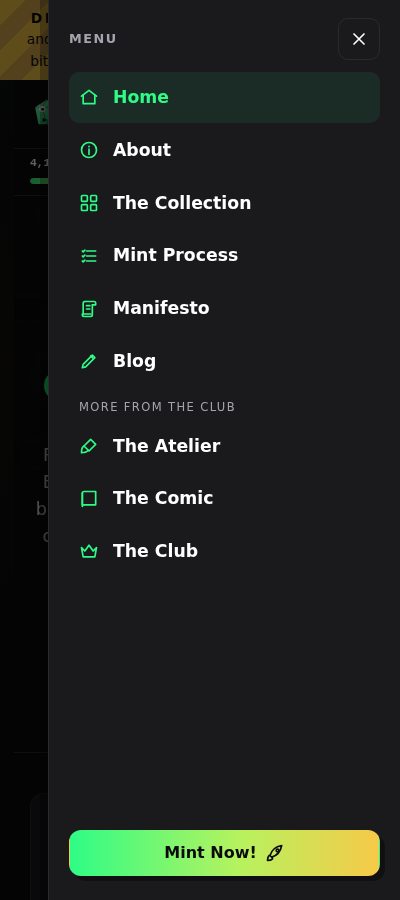
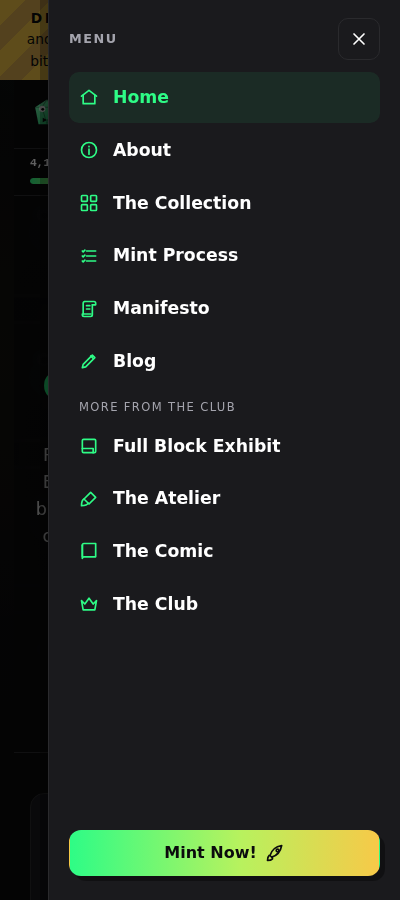
INFRA-0014: docs — ADR-0014, README site map, exhibit screenshots, catalog
- ADR-0014 (products/degent/docs/adr): the exhibit concept, the one-block visualization
  method + scale, data sources, block.space X-Ray/Theater cross-links, and what is
  illustrative/demo vs certified.
- README: /exhibit and /exhibit/{n} in the site map, VITE_BLOCKSPACE_URL, the machine-
  native surface, code map and test notes.
- screenshots: exhibit list/detail/kiosk at 1280/400, plus home (teaser) and menu (link).
- catalog regenerated (picks up the new build/e2e scripts).

Claude-Session: https://claude.ai/code/session_01XbNeaJV4gdj8V1ZUyNNShU

diff --git a/products/degent/apps/web/README.md b/products/degent/apps/web/README.md
@@ -22,6 +22,8 @@ pnpm --filter @bsh/degent-web e2e        # build + headless Chromium: every page
 | `/` | Home: hero wall, "The Decentralized Gentlemen Club", certified stat tiles, CTA Mint Now / Enter the Atelier, latest mints strip, comic teaser, Degen Minter banner | StatsService, membership list, mint `GET /v1/queue` |
 | `/collection` | Hero over the wall, collection card (certified numbers + computed 10K projection), gallery with the full pagination toolbar (per page, page select, first/prev/1 2 3 4 … N/next/last, go to), comic teaser, minter banner | membership list (certified items → bundled fallback) |
 | `/collection/:n` | Deep link: the lightbox (image, inscription id, address, content type/length, timestamp, block height, fee, View on Ordinals.com, Buy Item, prev/next, filmstrip, ←/→/Esc), per-item `<title>` / OpenGraph tags | OrdService (cached, neighbours prefetched) |
+| `/exhibit` | **Full Block Exhibit** (learning-ladder "Own"): gallery of the collection's Full Block Degents (content ≥ 3.5 MB, the SDK `fullblock` tier floor). Honest empty state when none are certified. `?kiosk=1` = full-screen auto-advancing plates (reduced-motion aware). `?format=json` = the index twin. See [ADR-0014](../../docs/adr/0014-full-block-exhibit.md) | membership list (certified → bundled), `@bsh/inscription` weight maths |
+| `/exhibit/:n` | One exhibit: a large plate, the **one-block visualization** (reveal weight to scale against the 4,000,000 WU block), on-chain facts, a museum placard, curatorial note + "why a full block is special" explainer, deep links to block.space X-Ray / Block Theater (ADR-0008), Ordinals, Ordiscan, Buy. Per-item `<title>` / OpenGraph / JSON-LD (`VisualArtwork`). `?format=json` = the item twin | OrdService + `@bsh/inscription` |
 | `/mint` | The eight-step mint (below). Stays mounted once visited, so browsing away mid-order keeps its in-memory state | mint service, wallet, esplora, ord |
 | `/atelier` | Generate with AI (brief, style chips, placard, tier with indicative cost, 1-4 variations → job polling → candidates in gold frames → finalize) or Bring your own art (picker + drag and drop, "use as-is" or "frame it for me"). Minting Rules checklist always visible and per candidate. "Mint this" → `/mint` | AtelierService (`contracts/openapi/degent-atelier.yaml`) |
 | `/comic` | "This is Gentlemen- The Comic" + reader: the on-chain comic from ord `/content/<id>` in a sandboxed iframe (`allow-scripts` only), View in Ordiscan | `VITE_COMIC_INSCRIPTION_ID` |
@@ -98,7 +100,22 @@ Then review the files and delete the placeholders.
 
 `/collection/:n` sets the document title, description and `og:*` tags on navigation. Scrapers that do not
 run JavaScript see only `index.html`'s defaults; per-item previews for them need a prerender or an edge
-rewrite of `index.html` (not included).
+rewrite of `index.html` (not included). `/exhibit/:n` additionally injects `VisualArtwork` JSON-LD.
+
+### Full Block Exhibit machine-native surface
+
+The build runs `scripts/gen-exhibit.ts` (a `tsx` step wired into `build` and `e2e`) before `vite build`. It
+reads the bundled manifest, computes each Full Block Degent's reveal weight/block-fraction with the **same**
+`@bsh/inscription` maths the pages use, and emits into `public/` (copied to `dist/`, git-ignored):
+
+- `exhibit/index.json` — every Full Block Degent with its on-chain facts and block-fraction (labelled
+  `source: "bundled", certified: false` for the static build; a live deployment regenerates it server-side);
+- `exhibit/<n>.json` — the per-item twin (also `/exhibit/<n>?format=json`, rendered by the app);
+- `llms.txt`, `sitemap.xml` — with the exhibit endpoints and item URLs.
+
+Shapes are pinned by `schemas/exhibit-{item,index}.schema.json` and asserted in `test/site/exhibit-json.test.ts`.
+Reveal weight/vsize/block-fraction are **estimated** from content length (`estimated: true`); content bytes,
+block height, timestamp, address and fee are recorded facts.
 
 ## The mint (`/mint`)
 
@@ -183,6 +200,7 @@ gets a "travels the block lane" warning there and again on Quote. Quote shows ti
 | `VITE_COMIC_INSCRIPTION_ID` | unset | Inscription id of the on-chain comic. Unset: placeholder cover |
 | `VITE_COPY_READY` | unset | Comma list of `manifesto,about` whose final copy has shipped. Others are hidden from navigation in production |
 | `VITE_MARKETPLACE_URL` | Magic Eden `ordinals/marketplace/degentclub` | The Buy button |
+| `VITE_BLOCKSPACE_URL` | `https://block.space` | block.space base for the Exhibit's Transaction X-Ray (`/xray/<revealTxid>`) and Block Theater (`/theater?block=<height>`) deep links (ADR-0008) |
 | `VITE_X_URL`, `VITE_TELEGRAM_URL`, `VITE_INSTAGRAM_URL` | x.com/degentclub, the Telegram invite, unset | Social links. Instagram is shown only when set (no verified handle in the spec) |
 | `VITE_NETWORK` | `mainnet` | `mainnet` \| `testnet` (testnet4) \| `signet` \| `regtest` |
 | `VITE_ESPLORA_URL` | mempool.space per network | Esplora-compatible API for UTXOs and broadcast |
@@ -214,9 +232,11 @@ check runs for real). TODO(copy) pages and draft blog posts are visible only in 
 | `src/site/services/types.ts` | Site ports: `StatsService`, `CollectionService`, `OrdService`, `NewsletterService`, `AtelierService` |
 | `src/site/services/real/*` | certification API, ord JSON, newsletter POST, Atelier HTTP client (contract) |
 | `src/site/services/fakes.ts`, `demoPainter.ts` | Site fakes and the demo canvas compositor |
-| `src/site/chrome/`, `components/`, `pages/` | Header, meters, menu, footer, newsletter; frames, pagination, lightbox; one file per page |
-| `src/site/lib/` | Pure helpers: pagination, stats/projection, front matter, markdown, rules checklist, handoff, JPEG padding, SIWB text, meta |
+| `src/site/chrome/`, `components/`, `pages/` | Header, meters, menu, footer, newsletter; frames, pagination, lightbox; one file per page (incl. `pages/Exhibit.tsx`: gallery, detail, one-block viz, kiosk, JSON twin) |
+| `src/site/lib/` | Pure helpers: pagination, stats/projection, front matter, markdown, rules checklist, handoff, JPEG padding, SIWB text, meta (+ JSON-LD), `exhibit.ts` (full-block filter + reveal-weight estimate + JSON twin shapes, all via `@bsh/inscription`/SDK) |
 | `src/content/blog/`, `src/data/collection.json` | Blog posts; bundled membership snapshot |
+| `schemas/exhibit-*.schema.json` | JSON Schemas for the exhibit index and per-item twins |
+| `scripts/gen-exhibit.ts` | Build step: emits `public/exhibit/*.json`, `llms.txt`, `sitemap.xml` (see "Full Block Exhibit machine-native surface") |
 | `scripts/import-wordpress.mjs` | WordPress export → markdown posts (local file only) |
 | `src/App.tsx` | The mint wizard (standalone or `embedded`; `handoff` prop) |
 | `src/services/types.ts` | Mint ports: `MintApi`, `WalletService` (now with `signMessage` + capabilities; 7 wallets incl. XCP, Horizon), `ChainApi`, `InscriptionOps`, `ImageTools` |
@@ -258,6 +278,13 @@ Site (`test/site/`):
   membership, Horizon ECDSA with the payment address, rejection, empty state.
 - `clients.test.ts` — Atelier HTTP client against the contract (session bearer, error codes + Retry-After, upload
   query, content by hash) and the ord JSON client (parsing, caching).
+- `exhibit.test.tsx` — `/exhibit` lists only full-block items (largest first, uncertified/demo label) and the honest
+  empty state when none qualify; `/exhibit/:n` plate, the one-block viz drawn to scale (fill width === weight/4,000,000),
+  real facts, placard, X-Ray/Theater/Ordinals/Buy deep links, `VisualArtwork` JSON-LD, per-item title; not-full-block
+  number handled; kiosk mode; `?format=json` twin; the retired live numbers never render.
+- `exhibit-json.test.ts` — the reveal-weight estimate equals `@bsh/inscription.estimateRevealWeight`; the viz fraction
+  is exactly weight/4,000,000; tier-floor classification; the index and per-item twins validated against the JSON
+  Schemas; configurable block.space base; theater/fee null until a height is known.
 
 Mint:
 

diff --git a/products/degent/docs/adr/0014-full-block-exhibit.md b/products/degent/docs/adr/0014-full-block-exhibit.md
@@ -1,0 +1,105 @@
+# ADR-0014: The Full Block Exhibit — a Full Block Degent as a museum object
+
+- **Status:** Accepted
+- **Date:** 2026-09-25
+- **Deciders:** team-degent (product), with block.space (X-Ray / Block Theater, ADR-0008)
+- **Components:** `@bsh/degent-web` (new `/exhibit` route), reuses `@bsh/inscription` and `@bsh/degent-mint-sdk`
+- **Related:** [ADR-0005](0005-strict-reveal-and-tiers.md) (tiers by content bytes, lanes by weight, the block-lane
+  weight budget), [ADR-0002](0002-degent-mint-architecture.md) (parent-linked provenance),
+  block.space [ADR-0008](../../../../blockspace/docs/adr/0008-transaction-xray-and-block-theater.md) (Transaction
+  X-Ray and Block Theater — the weight-proportional visualisation this borrows), `products/degent/docs/site-spec.md`
+  (one source of truth for numbers; `TODO(copy)` for uncaptured copy).
+
+## Context
+
+degent.club is the **Own** rung of Blockspace Holdings' learning ladder (See → Understand → Write → Own). The
+emotional peak of that rung is the one artwork that fills nearly a whole Bitcoin block: a **Full Block Degent**
+(`fullblock` tier, content ≥ 3.5 MB — ADR-0005 §3). Nothing on the rebuilt site yet turns that object into a
+lesson. The collection gallery (`/collection`) treats every Degent the same; the physical limit of the chain —
+4,000,000 weight units per block, the witness discount that lets ~3.96 MB of image ride in one block, one such
+inscription per block by construction — is never shown.
+
+We want a room in the site that presents a Full Block Degent as a museum object and uses it to teach that limit,
+honestly (no invented lore, no invented numbers, illustrative figures labelled), machine-readable, and usable on a
+gallery screen.
+
+## Decision
+
+### 1. A new route, `/exhibit` and `/exhibit/{n}`
+
+- `/exhibit` lists the collection's Full Block Degents. Membership is the same source as the rest of the site:
+  the block.space certification list, with the bundled manifest as the labelled fallback in demo mode
+  (site-spec.md "one source of truth"). The filter is **content bytes ≥ `FULLBLOCK_MIN_BYTES`** (3,500,000, the
+  SDK `fullblock` tier floor), *not* `tierForSize`: historical Degents predate the mint's 3.9 MB cap and the very
+  largest (~3.96 MB) are the truest block-fillers, so an upper bound would wrongly drop them. The chain only caps
+  the block, not the artwork.
+- `/exhibit/{n}` is one exhibit: a large plate, the one-block visualization, the recorded on-chain facts, a museum
+  placard (inscription id, parent-linked provenance, timestamp), a curatorial note and the "why a full block is
+  special" explainer, and the deep links below. Per-item `<title>`, OpenGraph and JSON-LD.
+- **Honest empty state.** Real certified full-block counts may be 0. When no item qualifies, `/exhibit` shows a
+  plain "none certified yet" panel and still teaches the concept — never a placeholder or invented item.
+
+### 2. The one-block visualization (method + scale)
+
+A single horizontal bar is one Bitcoin block: **its full width is 4,000,000 WU** (`LIMITS.MAX_BLOCK_WEIGHT` from
+`@bsh/inscription`). The green fill's width is exactly the inscription's reveal weight as a fraction of that limit,
+so **the fill's area *is* its weight** — the same weight-proportional idea as block.space's Block Theater
+(ADR-0008 §3), reduced to one tile against the whole block. The fill width is `fraction × 100%`, the fraction is
+`weight / 4,000,000`, and a component test asserts the rendered width equals the fraction within rounding; the e2e
+re-checks it in a real browser. A table twin lists reveal weight, block limit, share and unused WU for screen
+readers and reduced-motion; the bar is static (no animation).
+
+**Weight is estimated, and labelled so.** We do not have the historical reveal transactions, only each item's
+content length (from certification or the manifest). The exhibit feeds that length to
+`@bsh/inscription.estimateRevealWeight` (the exact serializer the mint quotes and the service enforces — no maths
+re-derived here) for a single-input, single-output JPEG-envelope reveal, and marks every derived number
+`estimated: true`. Content bytes, and (from ord) block height, timestamp, address and fee, are the recorded facts.
+Fee rate is `fee ÷ estimated vsize`. An **illustrative** cost at 2 sat/vB (via the existing `indicativeRevealSats`)
+teaches "filling a block costs a block's worth of fees" without presenting a fixture fee as a real price.
+
+### 3. Cross-links to the block.space tools (ADR-0008)
+
+Each exhibit deep-links to **Transaction X-Ray** (`{blockspace}/xray/{revealTxid}`) and, once the block height is
+known, **Block Theater** (`{blockspace}/theater?block={height}`), plus ordinals.com, Ordiscan and Magic Eden (Buy,
+as elsewhere). The reveal txid is the txid half of the `{txid}i0` inscription id. The block.space base is
+configurable (`VITE_BLOCKSPACE_URL`, default `https://block.space`); the Theater link is omitted (with a note)
+until a height is available, rather than guessed.
+
+### 4. Machine-native surface
+
+- **Client twin:** `/exhibit?format=json` and `/exhibit/{n}?format=json` render the exact page data as JSON,
+  computed by the same code path (consistent, offline).
+- **Static twins:** a build step (`scripts/gen-exhibit.ts`, run before `vite build`) emits `dist/exhibit/index.json`
+  and `dist/exhibit/{n}.json` from the bundled manifest (labelled `source: "bundled", certified: false`; a live
+  deployment regenerates them server-side), plus `llms.txt` and `sitemap.xml` entries. Shapes are pinned by
+  `schemas/exhibit-{item,index}.schema.json` and tested.
+- **JSON-LD:** each item is a `VisualArtwork` with `contentSize` (bytes), `size` (WU + block share), `isPartOf`
+  the collection `CreativeWork`, and a `citation` to the block. Stable anchors: `#plate`, `#one-block`, `#facts`,
+  `#placard`, `#narrative`, `#why`.
+
+### 5. Kiosk mode (`?kiosk=1`)
+
+`/exhibit?kiosk=1` is a full-screen, auto-advancing show of plates with large type and the one-block viz, for a
+gallery screen or booth. Auto-advance is **disabled under `prefers-reduced-motion`** (manual ← / → only, with an
+on-screen hint) and the bar never animates. Demo mode makes no network requests.
+
+## Alternatives considered
+
+- **Classify by `tierForSize` (3.5–3.9 MB).** Drops the largest, most block-filling historical Degents. Rejected:
+  the exhibit is about block-fillers; the tier floor is the honest filter.
+- **Show a real per-item reveal weight from chain.** ord's inscription JSON has no reveal weight, and re-fetching
+  and re-parsing each ~4 MB reveal is out of scope. The content-length estimate is exact for the envelope and
+  clearly labelled; a follow-up can read the real weight from block.space's X-Ray API.
+- **A byte-proportional bar.** Would hide the witness discount — the very thing that makes a full block possible.
+  Weight-proportional, like Block Theater.
+- **Invent curatorial lore tying to the comic.** Forbidden by site-spec.md; the comic copy was not captured. The
+  narrative is a `TODO(copy)` placeholder that links to `/comic`.
+
+## Consequences
+
+- The exhibit inherits the site's single-source-of-truth rule: certified numbers or the labelled bundled manifest,
+  never the retired live-site figures (4,027 / 1,470 MB) — enforced by tests.
+- One more thing depends on `@bsh/inscription`'s sizing being exact; that is already asserted against real signed
+  transactions in the platform.
+- New env var `VITE_BLOCKSPACE_URL`. New build step emits static JSON/llms/sitemap into `public/` (git-ignored).
+- When the first full-block Degent is certified, it appears automatically; until then the honest empty state shows.
